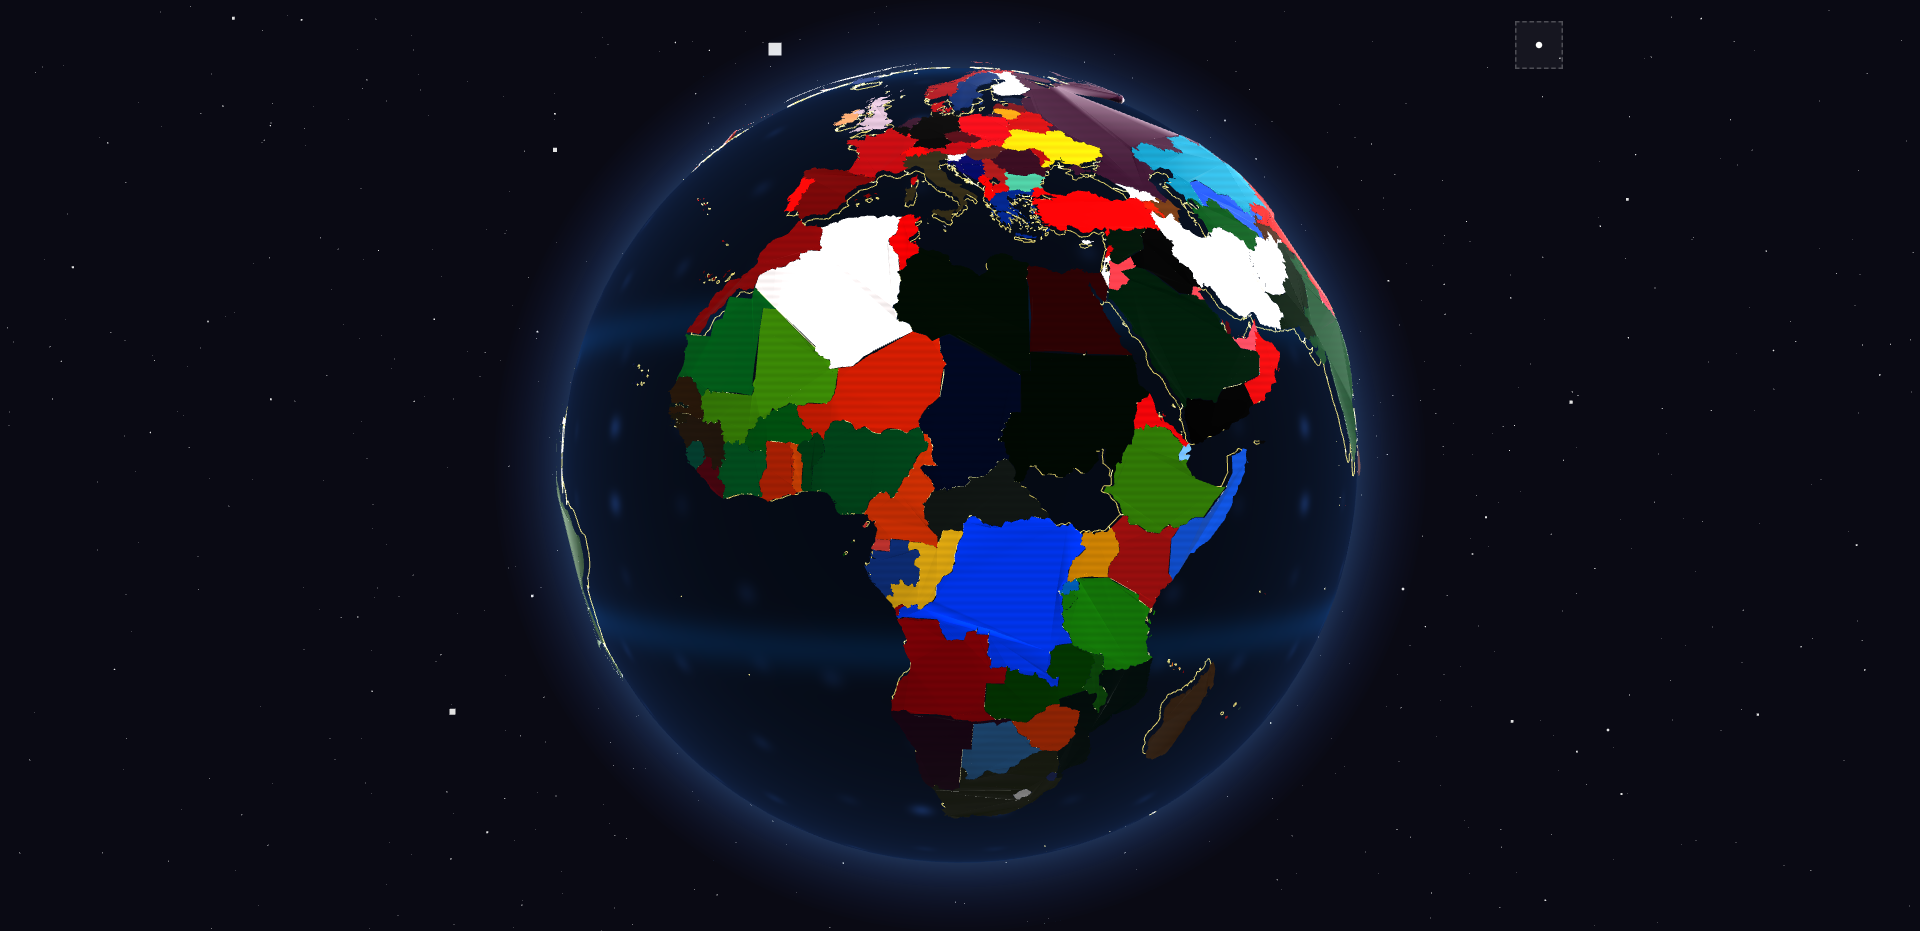
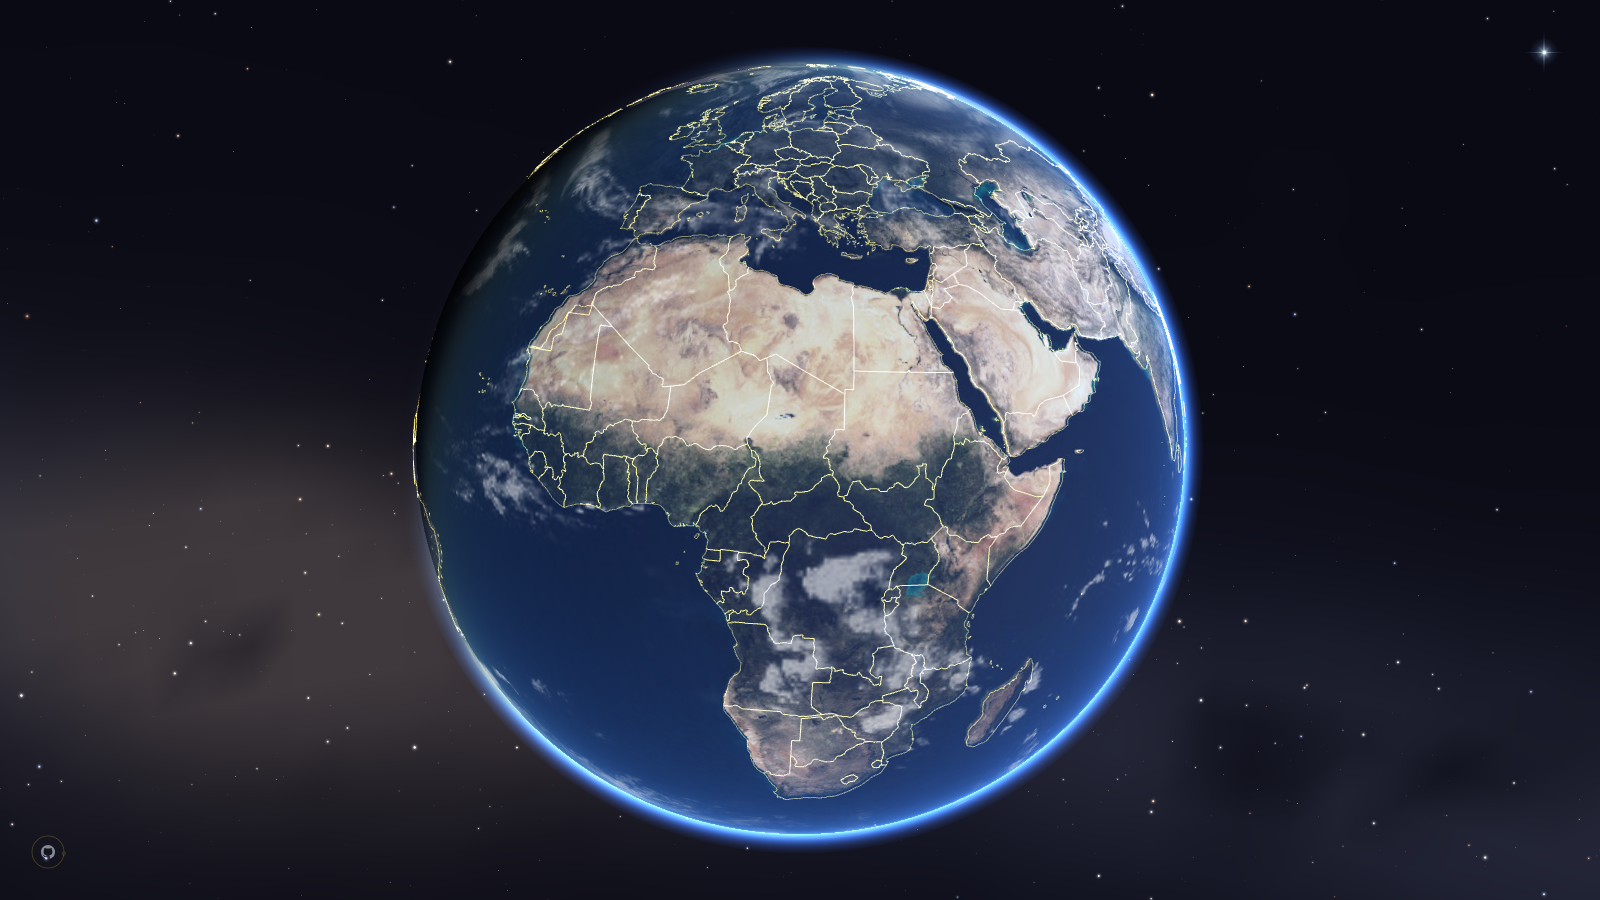
docs: nouvelles captures et README à jour
Captures refaites sur le build de production, horloge figée au 10 octobre 2026 à 8 h 10 UTC (vrai soleil : l'Afrique et l'Europe au matin, le Japon au crépuscule) : accueil, orbite, relevé, capitale, territoire, comparateur, frontières, et une planche mobile (accueil, aperçu, fiche, relevé). Anciennes captures des panneaux retirées.

README : lien vers le site, fonctionnalités de la refonte (vrai soleil, descente orbitale, climat, comparateur, mobile), architecture, flux de données et sources corrigés (Natural Earth 1:50m, capitales Wikidata, Banque mondiale, Köppen).

diff --git a/README.md b/README.md
@@ -10,9 +10,11 @@
 [![GSAP](https://img.shields.io/badge/GSAP-3.12-88CE02?logo=greensock&logoColor=white)](https://gsap.com)
 [![License: MIT](https://img.shields.io/badge/License-MIT-yellow.svg)](./LICENSE)
 
+**[Voir le site](https://mouwafic-builds-the-world.vercel.app)**
+
 </div>
 
-![Globe 3D : Afrique et Europe](public/screenshots/globe.png)
+![Globe 3D : l'Afrique et l'Europe au matin, éclairées par le vrai soleil](public/screenshots/globe.png)
 
 ---
 
@@ -27,49 +29,61 @@ Projet personnel de [BADAROU Mouwafic](https://github.com/mouwaficbdr). Aucune v
 
 ## Fonctionnalités
 
-- **Terre photoréaliste** : textures NASA Blue Marble (jour, relief, lumières des villes côté nuit), nuages, atmosphère en diffusion de Rayleigh (limbe bleu, crépuscule doré au terminateur), ciel profond avec Voie lactée et étoiles aux couleurs stellaires
-- **Globe interactif** : rotation et zoom libres, survol qui teinte et détoure le pays, vol de caméra GSAP vers le pays choisi
-- **Couleurs générées** : chaque pays porte la palette de son drapeau, calculée au build (k-means) et figée dans le GeoJSON
-- **Fiche pays complète** : démographie, gouvernance, capitale en temps réel, langues, monnaie, indicatif, domaine TLD, frontières voisines
-- **Extrait Wikipédia** : résumé encyclopédique en français (cascade FR puis EN, cache Next.js 24 h), récupéré au build avec repli silencieux
-- **Recherche instantanée** : depuis l'étoile de l'écran de départ ou ⌘K, filtrée côté client, insensible aux accents et aux noms français
-- **Arrivée « Pale Blue Dot »** : la Terre n'est qu'un point pendant le chargement réel, puis la caméra s'en approche ; guidage progressif et discret à la première visite
-- **Navigation responsive** : globe WebGL sur desktop, index mobile avec recherche et navigation par continent
+- **Terre photoréaliste, vrai soleil** : textures NASA Blue Marble (jour, relief, lumières des villes côté nuit), nuages, atmosphère en diffusion de Rayleigh ; le jour et la nuit affichés sont ceux de l'instant présent (point subsolaire calculé, recalé toutes les 30 s)
+- **Globe interactif** : rotation et zoom libres, survol qui teinte et détoure le pays, vol de caméra vers le pays choisi ; l'accueil vise des continents éclairés à toute heure
+- **Fiche pays en « descente orbitale »** : on arrive au-dessus du pays, le globe visible derrière le titre, puis relevé (six données clés), capitale (heure, jour ou nuit sur place, lever et coucher), habitants (rang sur 193, part de la population, langues), territoire, institutions et économie, frontières, archives ; rail de sommaire avec altimètre
+- **Le globe accompagne la fiche** : pays mis en évidence, cadrage selon sa taille, voisin survolé allumé sur le globe
+- **Climat de Köppen-Geiger** : les trois climats principaux de chaque pays et leur part du territoire (carte 1991-2020 de Beck et al.)
+- **Comparateur à taille réelle** : deux pays superposés à la même échelle en projection équivalente de Lambert, sans la dilatation de Mercator ; lien partageable
+- **Extrait Wikipédia** : résumé encyclopédique en français, récupéré au build avec nouvel essai et repli silencieux
+- **Recherche instantanée** : depuis l'étoile de l'écran de départ ou ⌘K, insensible aux accents et aux noms français
+- **Mobile** : le vrai globe, cadré pour le portrait ; tiroir à portée du pouce (recherche, pays au hasard, continents) et aperçu d'un pays au toucher
+- **Arrivée « Pale Blue Dot »** : la Terre n'est qu'un point pendant le chargement réel, puis la caméra s'en approche
 - **SSG pur** : 193 pages statiques pré-générées au build, aucun appel réseau au runtime pour les données pays
 
 ---
 
 ## Aperçu
 
+<sub>Captures prises le 10 octobre 2026 à 8 h 10 UTC : l'éclairage est celui du vrai soleil à cet instant.</sub>
+
 <table>
   <tr>
-    <td width="50%">
-      <img src="public/screenshots/country-hero.png" alt="Page pays, hero" />
-      <p align="center"><sub>Hero pays : palette générée depuis le drapeau</sub></p>
-    </td>
-    <td width="50%">
-      <img src="public/screenshots/demography.png" alt="Panel Démographie" />
-      <p align="center"><sub>Démographie : nuage de particules et données clés</sub></p>
+    <td colspan="2">
+      <img src="public/screenshots/country-hero.png" alt="Fiche du Japon : le pays mis en évidence au crépuscule, lumières des villes" />
+      <p align="center"><sub>Orbite : le Japon au crépuscule (17 h 10 à Tokyo), le terminateur juste dessus</sub></p>
     </td>
   </tr>
   <tr>
     <td width="50%">
-      <img src="public/screenshots/governance-capital.png" alt="Gouvernance et capitale" />
-      <p align="center"><sub>Régime politique, ambiance climatique et horloge locale en temps réel</sub></p>
+      <img src="public/screenshots/releve.png" alt="Relevé de la France : six données clés et extrait Wikipédia" />
+      <p align="center"><sub>Relevé : l'essentiel d'un coup d'œil</sub></p>
     </td>
     <td width="50%">
-      <img src="public/screenshots/language-currency.png" alt="Langues et monnaie" />
-      <p align="center"><sub>Langues officielles et monnaie, fond issu du drapeau</sub></p>
+      <img src="public/screenshots/capitale.png" alt="Capitale : Paris, heure locale, jour, lever et coucher" />
+      <p align="center"><sub>Capitale : heure locale et vrai ciel au-dessus d'elle</sub></p>
     </td>
   </tr>
   <tr>
     <td width="50%">
-      <img src="public/screenshots/network.png" alt="Réseau et communications" />
-      <p align="center"><sub>Indicatif téléphonique, domaine TLD et partage</sub></p>
+      <img src="public/screenshots/territoire.png" alt="Territoire : superficie, rang et climats de Köppen" />
+      <p align="center"><sub>Territoire : rang sur 193 et climats de Köppen-Geiger</sub></p>
     </td>
     <td width="50%">
-      <img src="public/screenshots/borders.png" alt="Frontières terrestres" />
-      <p align="center"><sub>Frontières terrestres : pays voisins cliquables</sub></p>
+      <img src="public/screenshots/comparateur.png" alt="Comparateur : le Brésil superposé aux États-Unis contigus" />
+      <p align="center"><sub>À taille réelle : le Brésil sur les États-Unis contigus</sub></p>
+    </td>
+  </tr>
+  <tr>
+    <td colspan="2">
+      <img src="public/screenshots/frontieres.png" alt="Frontières de la France : voisins à gauche, la France et l'Espagne allumées sur le globe" />
+      <p align="center"><sub>Frontières : survoler un voisin l'allume sur le globe</sub></p>
+    </td>
+  </tr>
+  <tr>
+    <td colspan="2">
+      <img src="public/screenshots/mobile.png" alt="Mobile : accueil avec tiroir, aperçu du Japon, fiche et relevé" />
+      <p align="center"><sub>Mobile : le vrai globe, le tiroir, l'aperçu au toucher, la fiche</sub></p>
     </td>
   </tr>
 </table>
@@ -95,10 +109,10 @@ Projet personnel de [BADAROU Mouwafic](https://github.com/mouwaficbdr). Aucune v
 |---|---|---|
 | [mledoze/countries](https://github.com/mledoze/countries) | Noms FR, gentilés, capitale, monnaies, langues, indicatif, TLD, voisins, appartenance à l'ONU | Vendoré dans `scripts/vendor/`, figé au build |
 | [countries-and-timezones](https://www.npmjs.com/package/countries-and-timezones) | Fuseau IANA de la capitale (gère l'heure d'été) | Dépendance npm, utilisée à la génération |
-| [Wikidata (SPARQL)](https://query.wikidata.org) | Forme de gouvernement (P122), libellé français | Vendoré dans `scripts/vendor/`, figé au build |
+| [Wikidata (SPARQL)](https://query.wikidata.org) | Forme de gouvernement (P122), libellé français ; coordonnées des capitales (P36, P625) | Vendoré dans `scripts/vendor/`, figé au build |
 | [Banque mondiale](https://data.worldbank.org/indicator/SP.POP.TOTL) | Population (dernière année publiée, affichée sur la fiche) | Vendoré dans `scripts/vendor/`, figé au build |
 | [Beck et al. 2023](https://doi.org/10.1038/s41597-023-02549-6), *Scientific Data* 10, 724 | Climats de Köppen-Geiger 1991-2020 (carte à 0,1°), trois classes principales par pays | Calculé par `scripts/compute-koppen.mjs`, vendoré dans `scripts/vendor/koppen.json` |
-| [Natural Earth 110m](https://www.naturalearthdata.com) | Géométrie des frontières (GeoJSON) | Fichier statique, domaine public |
+| [Natural Earth 1:50m](https://www.naturalearthdata.com) | Géométrie des frontières (GeoJSON) | Fichier statique, domaine public |
 | [NASA Blue Marble](https://visibleearth.nasa.gov) via les exemples [three.js](https://github.com/mrdoob/three.js/tree/dev/examples/textures/planets) | Textures de la Terre (jour, nuit, relief, nuages) | `public/textures/earth/`, domaine public / MIT |
 | [Wikipedia REST API](https://fr.wikipedia.org/api/rest_v1/) | Extraits encyclopédiques (cascade FR puis EN) | Récupéré au build, cache Next.js 24h, repli silencieux |
 | MDX local | Articles éditoriaux par pays | `/content/countries/[cca3].mdx` |
@@ -120,21 +134,24 @@ atlas/
 ├── components/
 │   ├── globe/                  # GlobeScene, EarthMesh, CloudsMesh, AtmosphereMesh,
 │   │                           #   StarField, BordersMesh, HoverHighlight, CameraTransition
-│   ├── country/                # CountryCard et ses panneaux, CountryFooter
-│   ├── ui/                     # SearchPalette, LoadingScreen, GlobeOnboarding, OffMapScreen...
+│   ├── country/                # CountryCard (descente orbitale), DescentRail, CapitalSky,
+│   │                           #   ClimateDisplay, TrueSizeCompare, NeighborCards, CountryFooter
+│   ├── ui/                     # SearchPalette, LoadingScreen, GlobeOnboarding, MobileHomeDock,
+│   │                           #   MobileExplorer, OffMapScreen...
 │   └── layout/                 # PersistentLayout, Navigation (étoile de recherche)
-├── lib/                        # search-engine, geojson-loader, i18n-country, mood-resolver...
+├── lib/                        # search-engine, geojson-loader, solar (soleil), koppen,
+│   │                           #   true-size (projection de Lambert), bearing...
 │   └── globe/                  # sélection des pays, soleil, intro caméra, textures
 ├── content/countries/          # Fichiers MDX éditoriaux ([cca3].mdx)
 ├── public/data/                # countries-geo.json (géométrie et propriétés figées)
 ├── public/textures/earth/      # Textures NASA de la Terre
-├── scripts/                    # generate-geo.js, fetch-vendor-data.js, vendor/
+├── scripts/                    # generate-geo.js, fetch-vendor-data.js, compute-koppen.mjs, vendor/
 └── shaders/                    # GLSL : atmosphère, nuages, ciel, étoiles
 ```
 
 **Flux de données**
 
-1. **Vendoring** (manuel, hors build) : `scripts/fetch-vendor-data.js` fige mledoze/countries et la forme de gouvernement Wikidata dans `scripts/vendor/`
+1. **Vendoring** (manuel, hors build) : `scripts/fetch-vendor-data.js` fige mledoze/countries, la forme de gouvernement et les capitales (Wikidata) et la population (Banque mondiale) dans `scripts/vendor/` ; `scripts/compute-koppen.mjs` y calcule les climats depuis la carte de Beck et al.
 2. **Génération** (manuel, hors build) : `scripts/generate-geo.js` reconstruit `public/data/countries-geo.json` : filtre aux États membres de l'ONU, noms, langues et monnaies en français, fuseaux IANA, indicatif, TLD, palette k-means, centroïde, passe géométrie
 3. **Build** : `generateStaticParams` lit les 193 codes du GeoJSON et pré-génère toutes les routes ; seul l'extrait Wikipédia est récupéré en ligne (repli silencieux)
 4. **Runtime SSG** : les données complètes de chaque pays sont injectées statiquement dans la page ; le client ne fait aucun appel réseau de données
@@ -178,7 +195,7 @@ npm test           # vitest run
 npm run test:watch # vitest (mode watch)
 ```
 
-Les tests couvrent les fonctions critiques : moteur de recherche (fuzzy matching, insensibilité aux accents et aux noms français), sélection d'un pays sur le globe (inversion de projection, point-in-polygon), formatage des coordonnées, vérificateur de contraste WCAG 2.1 et résolution d'ambiances pays.
+Les tests couvrent les fonctions critiques : moteur de recherche (fuzzy matching, insensibilité aux accents et aux noms français), sélection d'un pays sur le globe (inversion de projection, point-in-polygon), position du soleil (solstices, équinoxe, lever et coucher, jours polaires), projection équivalente du comparateur, cadrage du globe en portrait, couverture des données des 193 pays, formatage des coordonnées et vérificateur de contraste WCAG 2.1.
 
 ---
 
